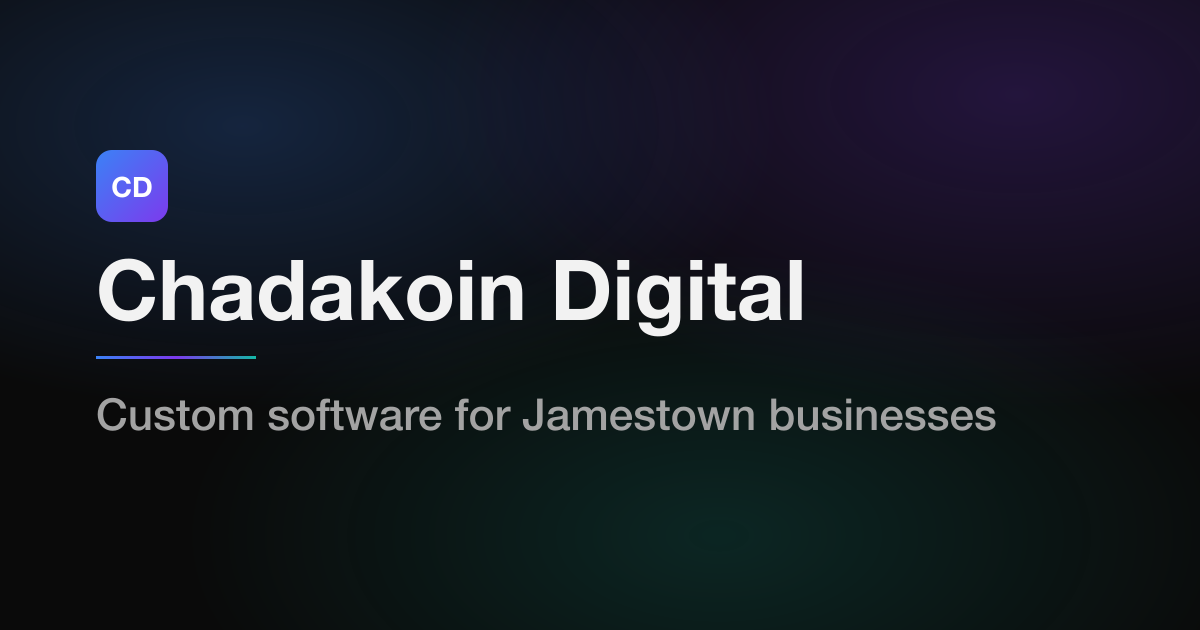
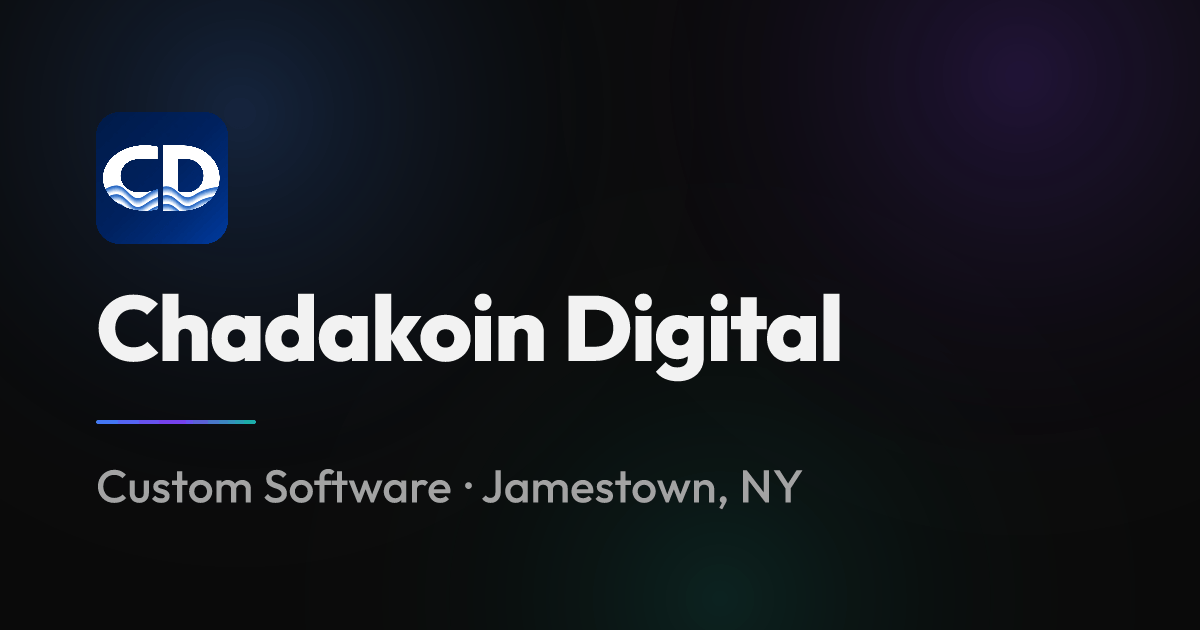
Pre-launch polish: 404, privacy page, security headers, new og image, copy fixes
- Branded 404 with header, footer, homepage and booking buttons
- /privacy page, linked in the footer and added to the sitemap
- Disable x-powered-by; add HSTS, nosniff, X-Frame-Options and Referrer-Policy
- og-image.png rebuilt with the CD logo and new tagline (59 KB)
- favicon.ico lists 32x32 first so it is declared as 32x32
- Copy: hero comma and list order, Talk on Google Meet, 30-min chat,
  no trailing periods on card headings, Websites H1, Tarp Skunks preview label

diff --git a/lib/services.ts b/lib/services.ts
@@ -18,14 +18,14 @@ export const SERVICES: Service[] = [
     title: 'Business Websites in Jamestown, NY | Chadakoin Digital',
     description:
       'Fast, simple websites for Jamestown businesses: hours, menu or services, contact info and a map. Starting at $500, usually live in under a week.',
-    h1: 'Business websites for Jamestown businesses',
+    h1: 'Websites for Jamestown businesses',
     price: 'Starting at $500.',
     timeline: 'Usually under a week once I have your info.',
     carePlan: 'Add the care plan for $30 a month',
     paragraphs: [
       'Most people look up a local business on their phone before they call or walk in. If what they find is an old page, a broken link or nothing at all, they move on. A business website from me gives them the basics right away: your hours, your menu or services, how to reach you, and a map to your door.',
       'I keep these sites fast and simple. They load quickly on a phone, they are easy to read, and they show up properly when someone searches for you or shares your link. You do not need to learn a website builder or keep up with plugins. When your hours or prices change, you send me a message and I update it.',
-      'The process is short. We talk for half an hour about what you need, you send me your details and any photos you want to use, and I build it. Most sites are usually live in under a week once I have your info.',
+      'The process is short. We talk for half an hour about what you need, you send me your details and any photos you want to use, and I build it. Most sites are live in under a week once I have your info.',
       'Pricing starts at $500, and you get a fixed quote before any work begins. Changes and small jobs after launch are $35 an hour. For local businesses I am also open to barter, such as a trade for services, goods or ad space.',
     ],
   },
@@ -42,7 +42,7 @@ export const SERVICES: Service[] = [
       'If your appointments live in a paper book, your orders come in by phone, text and Facebook message, and you spend the evening sorting it all out, a booking or ordering setup can take that off your plate.',
       'I set up a way for customers to book a time or place an order online, on their phone, whenever it suits them. You see every booking and order in one place instead of across five apps. It can send confirmations and reminders so fewer people forget, and it fits the way your business already works instead of forcing you into someone else\'s system.',
       'This works for salons, repair shops, studios, food businesses, rental gear, classes and anyone else who takes appointments or orders. If an off-the-shelf tool already fits you, I will tell you and help you set it up. If it does not, I build something that does.',
-      'Pricing starts at $1,000, and you get a fixed quote before any work begins. Most setups usually take 1 to 2 weeks. Changes and small jobs after launch are $35 an hour, and I am open to barter with local businesses.',
+      'Pricing starts at $1,000, and you get a fixed quote before any work begins. Most setups take 1 to 2 weeks. Changes and small jobs after launch are $35 an hour, and I am open to barter with local businesses.',
     ],
   },
   {
@@ -58,22 +58,22 @@ export const SERVICES: Service[] = [
       'A lot of local businesses run on spreadsheets. Sales in one file, inventory in another, and a report someone rebuilds by hand every Monday. It works until a formula breaks, two people edit different copies, or you need an answer and nobody can find it.',
       'I take the numbers you already track and put them in one dashboard that updates itself. You open it on your phone or computer and see sales, inventory, bookings, or whatever matters to you, without copying and pasting. It can pull from the spreadsheets you use today, so nobody has to change how they enter data.',
       'This is a good fit if you find yourself asking how this week compared to last week, what is running low, or which products are actually selling, and getting that answer takes more than a few seconds.',
-      'Pricing starts at $400, and you get a fixed quote before any work begins. Most dashboards usually take about a week. Changes and small jobs after launch are $35 an hour, and I am open to barter with local businesses.',
+      'Pricing starts at $400, and you get a fixed quote before any work begins. Most dashboards take about a week. Changes and small jobs after launch are $35 an hour, and I am open to barter with local businesses.',
     ],
   },
   {
     slug: 'automation',
     title: 'Business Automation and Custom Tools | Chadakoin Digital',
     description:
-      'Hand off the workflow that wastes your time every day. Automation starts at $300; larger custom tools are quoted after a free 30-minute chat.',
+      'Hand off the workflow that wastes your time every day. Automation starts at $300; larger custom tools are quoted after a free 30-min chat.',
     h1: 'Automation and custom tools',
     price: 'Starting at $300.',
-    timeline: 'Larger custom tools are quoted after a free 30-minute conversation.',
+    timeline: 'Larger custom tools are quoted after a free 30-min chat.',
     carePlan: 'Add the care plan from $50 a month',
     paragraphs: [
       'Every business has a task that eats time every day. Copying orders from email into a spreadsheet, sending the same reminder to every customer, building the same invoice by hand, or checking three websites to find one number. None of it is hard, but it adds up to hours you could spend on the actual work.',
       'I pick one of those workflows and make it run on its own. The data moves where it needs to go, the messages go out on time, and you get a heads up when something actually needs your attention. You keep the tools you already use, and I connect them so they work together.',
-      'Sometimes the right answer is bigger than one automation: a small custom tool built around how your business works. Those are quoted after a free 30-minute conversation, so you know the scope and the price before anything starts.',
+      'Sometimes the right answer is bigger than one automation: a small custom tool built around how your business works. Those are quoted after a free 30-min chat, so you know the scope and the price before anything starts.',
       'Single automations start at $300, and you get a fixed quote before any work begins. Changes and small jobs after launch are $35 an hour. I am based in Jamestown, NY, and open to barter with local businesses.',
     ],
   },

diff --git a/app/privacy/page.tsx b/app/privacy/page.tsx
@@ -1,0 +1,78 @@
+import type { Metadata } from 'next';
+import Navigation from '@/components/Navigation';
+import Footer from '@/components/Footer';
+import { SITE_URL } from '@/lib/services';
+
+const title = 'Privacy | Chadakoin Digital';
+const description = 'What chadakoindigital.com collects (very little), and how to reach me about it.';
+const lastUpdated = 'November 3, 2026';
+
+export const metadata: Metadata = {
+  title,
+  description,
+  alternates: { canonical: `${SITE_URL}/privacy` },
+  openGraph: {
+    title,
+    description,
+    url: `${SITE_URL}/privacy`,
+    siteName: 'Chadakoin Digital',
+    type: 'website',
+    images: [{ url: '/og-image.png', width: 1200, height: 630, alt: 'Chadakoin Digital' }],
+  },
+};
+
+const sections = [
+  {
+    heading: 'What this site collects',
+    body: 'Nothing beyond what you choose to send me. There are no forms on this site. If you book a chat, the booking calendar collects the details you enter there. If you use the Email me or Text me buttons, I get whatever you put in your message.',
+  },
+  {
+    heading: 'No ads or trackers',
+    body: 'There are no ads, analytics, tracking pixels or tracking cookies here. Like any website, the server keeps basic technical logs, such as IP addresses and the pages requested, to keep it running and secure. I do not use them to identify or follow anyone.',
+  },
+  {
+    heading: 'The booking calendar',
+    body: 'Booking is handled by Google Calendar. When you book, Google processes the information you enter under its own privacy policy, and I use it only to meet with you.',
+  },
+  {
+    heading: 'What I do with your messages',
+    body: 'I use what you send me to reply to you and to work on your project. I do not sell it, share it for marketing, or add you to a mailing list.',
+  },
+  {
+    heading: 'Questions',
+    body: 'If you want to know what I have from you, or want it deleted, reach me with the Email me or Text me buttons in the contact section.',
+  },
+];
+
+export default function PrivacyPage() {
+  return (
+    <>
+      <Navigation />
+      <main className="relative px-6 pt-36 pb-24">
+        <article className="max-w-3xl mx-auto">
+          <div className="accent-line mb-6" />
+          <h1 className="section-title mb-4">Privacy</h1>
+          <p className="text-sm text-studio-muted mb-10">Last updated {lastUpdated}</p>
+
+          <div className="space-y-8">
+            {sections.map((section) => (
+              <section key={section.heading}>
+                <h2 className="text-xl md:text-2xl font-display font-bold text-studio-text mb-3">{section.heading}</h2>
+                <p className="section-copy">{section.body}</p>
+              </section>
+            ))}
+          </div>
+
+          <a
+            href="/#contact"
+            className="inline-flex items-center gap-2 min-h-[44px] mt-10 text-accent-blue hover:text-accent-teal transition-colors"
+          >
+            Go to the contact section
+            <span aria-hidden="true">&rarr;</span>
+          </a>
+        </article>
+      </main>
+      <Footer />
+    </>
+  );
+}

diff --git a/components/Offers.tsx b/components/Offers.tsx
@@ -3,7 +3,7 @@
 export default function Offers() {
   const offers = [
     {
-      title: 'Business website.',
+      title: 'Business website',
       slug: 'websites',
       linkLabel: 'More about websites',
       body: 'A fast, simple site for your hours, menu or services, with your contact info and a map.',
@@ -11,7 +11,7 @@ export default function Offers() {
       note: 'Usually under a week once I have your info.',
     },
     {
-      title: 'Booking or ordering setup.',
+      title: 'Booking or ordering setup',
       slug: 'booking-and-ordering',
       linkLabel: 'More about booking and ordering',
       body: 'Customers book or order online and you see it all in one place.',
@@ -19,7 +19,7 @@ export default function Offers() {
       note: 'Usually 1 to 2 weeks.',
     },
     {
-      title: 'Spreadsheet to dashboard.',
+      title: 'Spreadsheet to dashboard',
       slug: 'dashboards',
       linkLabel: 'More about dashboards',
       body: 'Your numbers, reports and inventory in one place that updates itself.',
@@ -27,12 +27,12 @@ export default function Offers() {
       note: 'Usually about a week.',
     },
     {
-      title: 'Automation or custom tool.',
+      title: 'Automation or custom tool',
       slug: 'automation',
       linkLabel: 'More about automation',
       body: 'One workflow that wastes your time every day, handled for you.',
       price: 'Starting at $300.',
-      note: 'Larger custom tools are quoted after a free 30-minute conversation.',
+      note: 'Larger custom tools are quoted after a free 30-min chat.',
     },
   ];
 

diff --git a/app/not-found.tsx b/app/not-found.tsx
@@ -1,0 +1,33 @@
+import type { Metadata } from 'next';
+import Navigation from '@/components/Navigation';
+import Footer from '@/components/Footer';
+import BookingButton from '@/components/BookingButton';
+
+export const metadata: Metadata = {
+  title: 'Page not found | Chadakoin Digital',
+};
+
+export default function NotFound() {
+  return (
+    <>
+      <Navigation />
+      <main className="relative px-6 pt-36 pb-24 min-h-[70vh] flex items-center">
+        <div className="max-w-3xl mx-auto w-full">
+          <p className="text-accent-teal font-mono text-sm uppercase tracking-[0.22em] mb-6">404</p>
+          <div className="accent-line mb-6" />
+          <h1 className="section-title mb-6">That page doesn&apos;t exist.</h1>
+          <div className="flex flex-col sm:flex-row gap-4 mt-10">
+            <a
+              href="/"
+              className="inline-flex items-center justify-center min-h-[44px] px-7 py-3 rounded-full border border-white/20 text-studio-text font-semibold text-center hover:border-accent-teal/70 transition-colors"
+            >
+              Back to the homepage
+            </a>
+            <BookingButton />
+          </div>
+        </div>
+      </main>
+      <Footer />
+    </>
+  );
+}

diff --git a/components/Hero.tsx b/components/Hero.tsx
@@ -14,9 +14,9 @@ export default function Hero() {
             Custom software for Jamestown businesses.
           </h1>
           <p className="text-lg sm:text-xl md:text-2xl text-studio-muted max-w-3xl leading-relaxed mb-10">
-            I&apos;m Rob Fiasco, one person in Jamestown, NY who builds the tools your business is missing:
-            dashboards, scheduling, automation, apps and websites. You work directly with me from start to
-            finish, which keeps projects fast and affordable.
+            I&apos;m Rob Fiasco, one person in Jamestown, NY, who builds the tools your business is missing:
+            websites, booking and ordering, dashboards and automation. You work directly with me from start
+            to finish, which keeps projects fast and affordable.
           </p>
           <div className="flex flex-col sm:flex-row gap-4">
             <BookingButton />

diff --git a/components/Footer.tsx b/components/Footer.tsx
@@ -7,7 +7,12 @@ export default function Footer() {
     <footer className="px-6 pb-12 pt-8">
       <div className="max-w-7xl mx-auto border-t border-white/10 pt-8 flex flex-col md:flex-row items-start md:items-center justify-between gap-4">
         <p className="text-studio-muted text-sm">© {currentYear} Chadakoin Digital</p>
-        <p className="text-studio-muted text-sm">Custom Software · Jamestown, NY</p>
+        <div className="flex items-center gap-6">
+          <p className="text-studio-muted text-sm">Custom Software · Jamestown, NY</p>
+          <a href="/privacy" className="py-2.5 text-studio-muted text-sm hover:text-studio-text transition-colors">
+            Privacy
+          </a>
+        </div>
       </div>
     </footer>
   );

diff --git a/lib/contact.ts b/lib/contact.ts
@@ -15,7 +15,7 @@ export const CONTACT_PHONE: [string, string, string] = ['281', '785', '7760'];
 export const BOOKING_URL = 'https://calendar.app.google/zsP3jzmzEnzajzpd9';
 
 export const BOOKING_LABEL = 'Book a free 30-min chat';
-export const BOOKING_NOTE = 'Meet on Google Meet, or grab a coffee in Jamestown.';
+export const BOOKING_NOTE = 'Talk on Google Meet, or grab a coffee in Jamestown.';
 
 export const bookingHref = BOOKING_URL || '#contact';
 export const bookingIsExternal = BOOKING_URL.startsWith('http');

diff --git a/app/layout.tsx b/app/layout.tsx
@@ -24,7 +24,7 @@ export const metadata: Metadata = {
     url: 'https://chadakoindigital.com',
     siteName: 'Chadakoin Digital',
     type: 'website',
-    images: [{ url: '/og-image.png', width: 1200, height: 630, alt: 'Chadakoin Digital: Custom software for Jamestown businesses' }],
+    images: [{ url: '/og-image.png', width: 1200, height: 630, alt: 'Chadakoin Digital: Custom Software · Jamestown, NY' }],
   },
   twitter: {
     card: 'summary_large_image',

diff --git a/app/sitemap.ts b/app/sitemap.ts
@@ -5,6 +5,7 @@ export default function sitemap(): MetadataRoute.Sitemap {
   const lastModified = new Date();
   return [
     { url: SITE_URL, lastModified, changeFrequency: 'monthly', priority: 1 },
+    { url: `${SITE_URL}/privacy`, lastModified, changeFrequency: 'yearly', priority: 0.3 },
     ...SERVICES.map((service) => ({
       url: `${SITE_URL}/services/${service.slug}`,
       lastModified,

diff --git a/components/Portfolio.tsx b/components/Portfolio.tsx
@@ -14,7 +14,7 @@ export default function Portfolio() {
         height: 416,
       },
       link: 'https://tarp-skunks-2026.vercel.app/',
-      linkLabel: 'Open the fan guide',
+      linkLabel: 'Preview the fan guide',
     },
     {
       title: 'CDIR',
